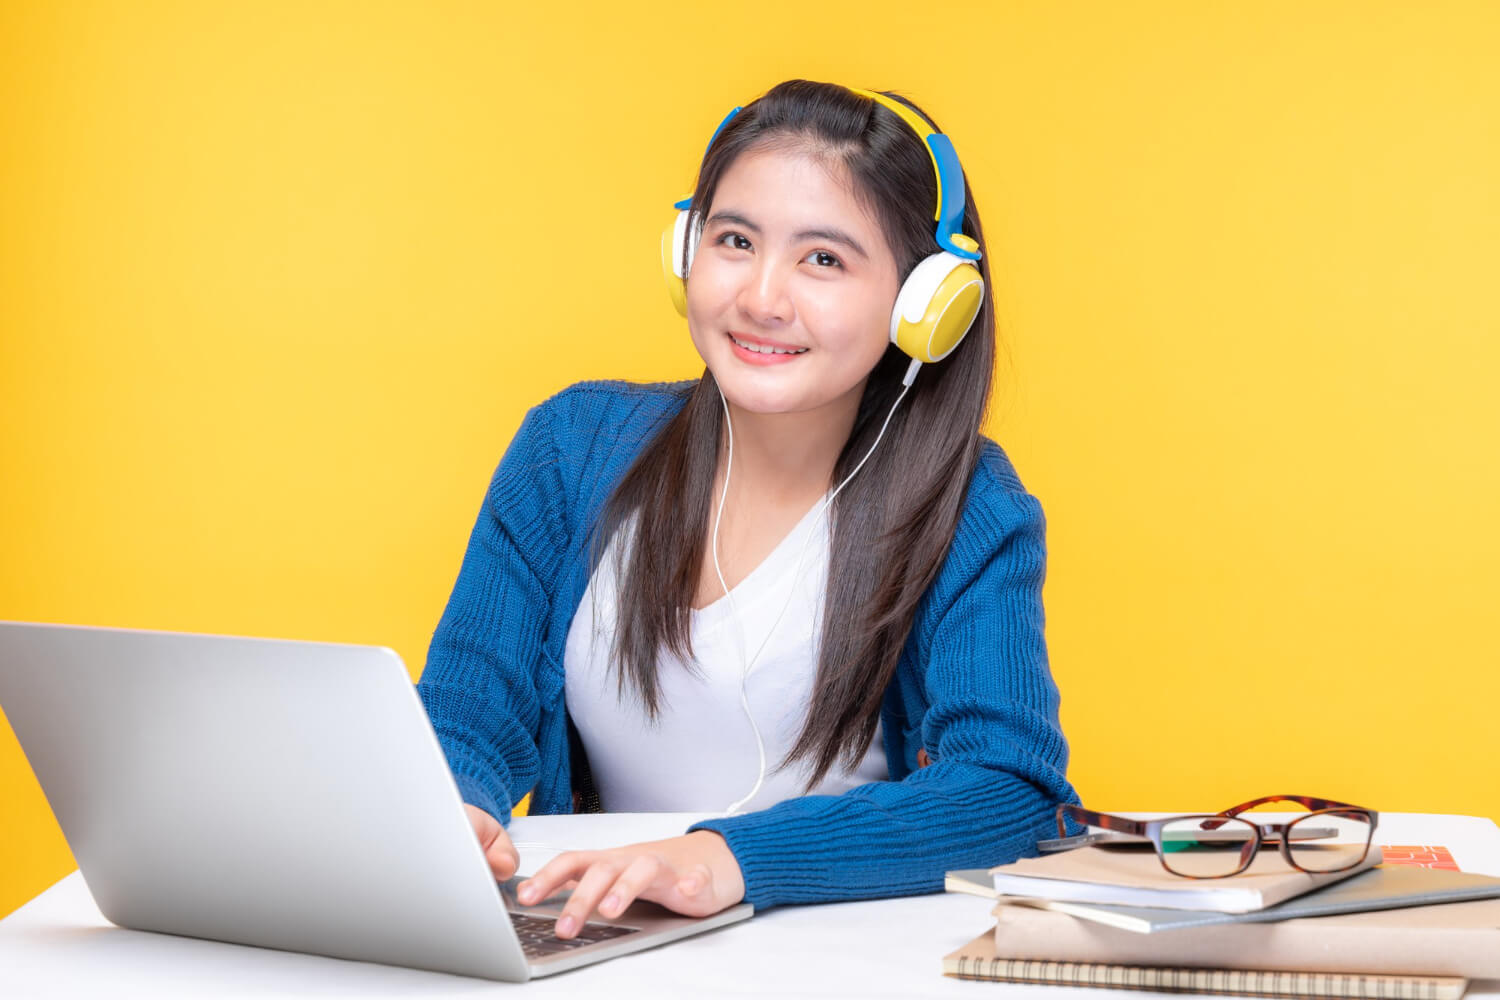
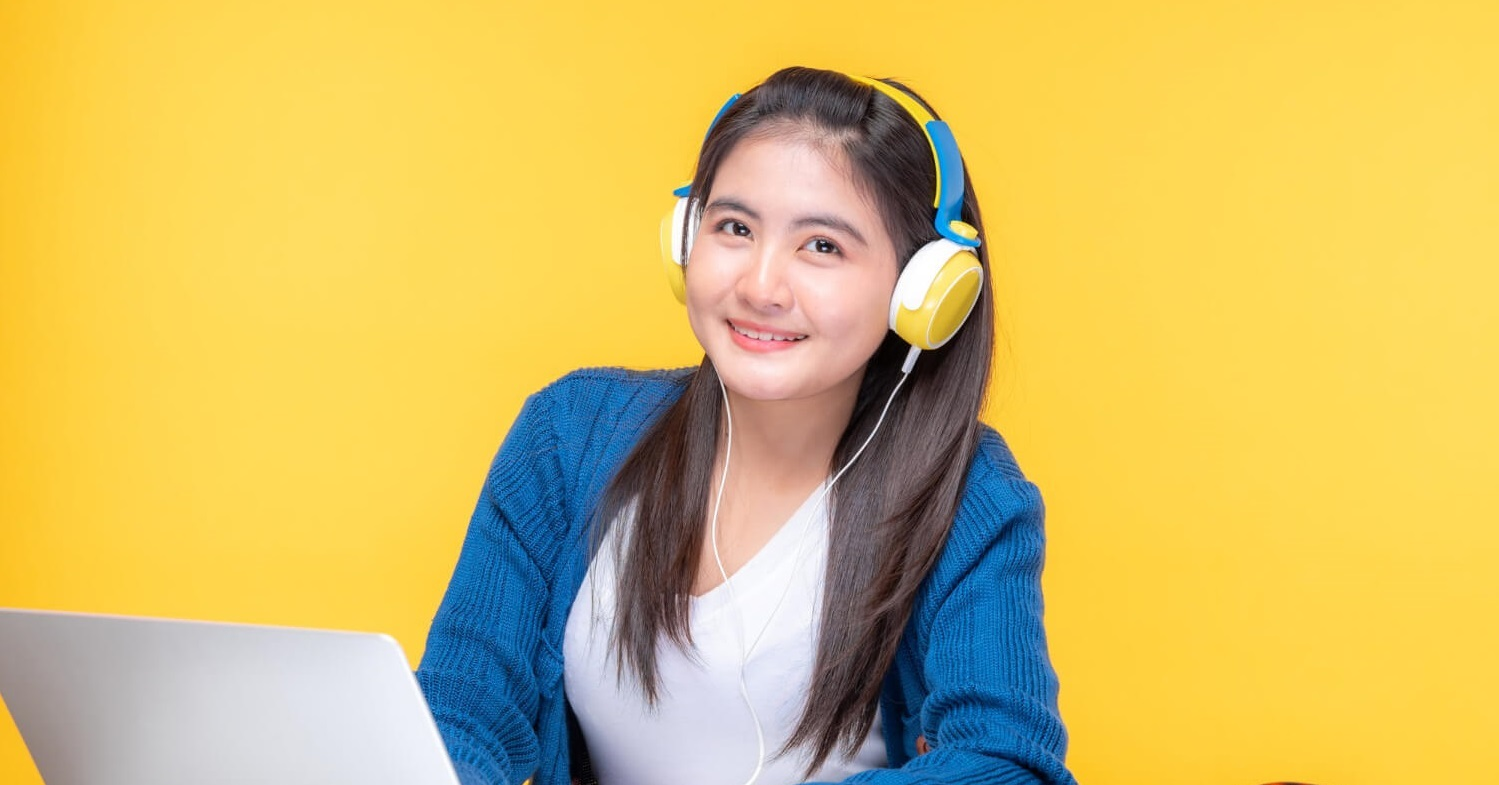
carousel 1st edition done

diff --git a/index.html b/index.html
@@ -56,9 +56,45 @@
     <!-- main content starts -->
     <main class="container">
       <!-- Carousel begins -->
-      
+      <div id="carouselExampleCaptions" class="carousel slide " data-bs-ride="false">
+        
+        <div class="carousel-inner">
+          <div class="carousel-item active">
+            <img src="images/cover/cover-1.png" class="d-block w-100" alt="...">
+            <div class="carousel-caption h-100 d-flex flex-column align-items-center justify-content-center">
+              <h1 class=" fw-semibold">Get Started Digital <br> Learning</h1>
+              <p class="">It is a long established fact that a reader will be distracted by the <br>readable content of a page when looking at its layout.</p>
+              <button class="btn btn-primary fw-semibold px-3 py-1 px-lg-4 py-lg-2">Get Started</button>
+            </div>
+          </div>
+          <div class="carousel-item ">
+            <img src="images/cover/cover-2.jpg" class="d-block w-100" alt="...">
+            <div class="carousel-caption h-100 d-flex flex-column align-items-center justify-content-center">
+              <h1 class=" fw-semibold">Get Started Digital <br> Learning</h1>
+              <p class="">It is a long established fact that a reader will be distracted by the <br>readable content of a page when looking at its layout.</p>
+              <button class="btn btn-primary fw-semibold px-3 py-1 px-lg-4 py-lg-2">Get Started</button>
+            </div>
+          </div>
+          <div class="carousel-item">
+            <img src="images/cover/cover-3.jpg" class="d-block w-100" alt="...">
+            <div class="carousel-caption h-100 d-flex flex-column align-items-center justify-content-center">
+              <h1 class=" fw-semibold">Get Started Digital <br> Learning</h1>
+              <p class="">It is a long established fact that a reader will be distracted by the <br>readable content of a page when looking at its layout.</p>
+              <button class="btn btn-primary fw-semibold px-3 py-1 px-lg-4 py-lg-2">Get Started</button>
+            </div>
+          </div>
+          
+        </div>
+        <button class="carousel-control-prev" type="button" data-bs-target="#carouselExampleCaptions" data-bs-slide="prev">
+          <span class="carousel-control-prev-icon" aria-hidden="true"></span>
+          <span class="visually-hidden">Previous</span>
+        </button>
+        <button class="carousel-control-next" type="button" data-bs-target="#carouselExampleCaptions" data-bs-slide="next">
+          <span class="carousel-control-next-icon" aria-hidden="true"></span>
+          <span class="visually-hidden">Next</span>
+        </button>
+      </div>
       <!-- Carousel Ends -->
-
     </main>
     <!-- main content Ends -->
 

diff --git a/style.css b/style.css
@@ -1,0 +1,25 @@
+.carousel-item{
+    background: no-repeat scroll center scroll;
+    background-size: cover;
+}
+.carousel-item::before{
+    content: "";
+    display: block;
+    position: absolute;
+    top: 0;
+    left: 0;
+    bottom: 0;
+    right: 0;
+    background: #000;
+    opacity: 0.5;
+}
+.carousel-caption button{
+    font-size: 2vmin;
+}
+.carousel-caption h1{
+    font-size: 4vw;
+    
+}
+.carousel-caption p{
+    font-size: 2vmin;
+}
